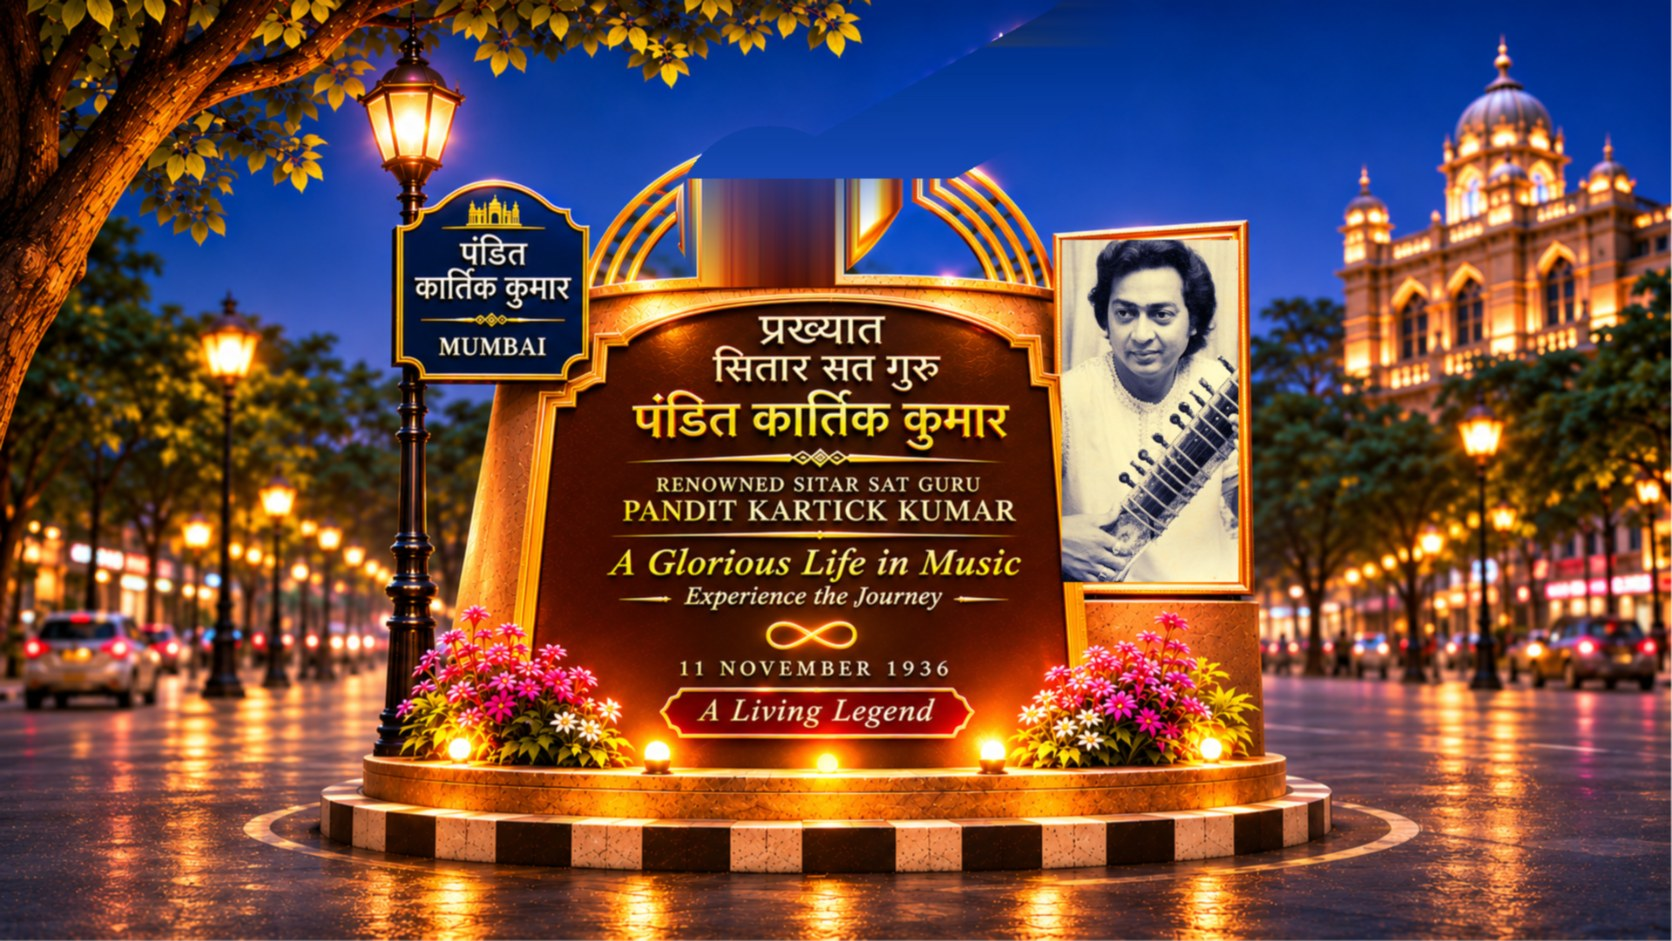
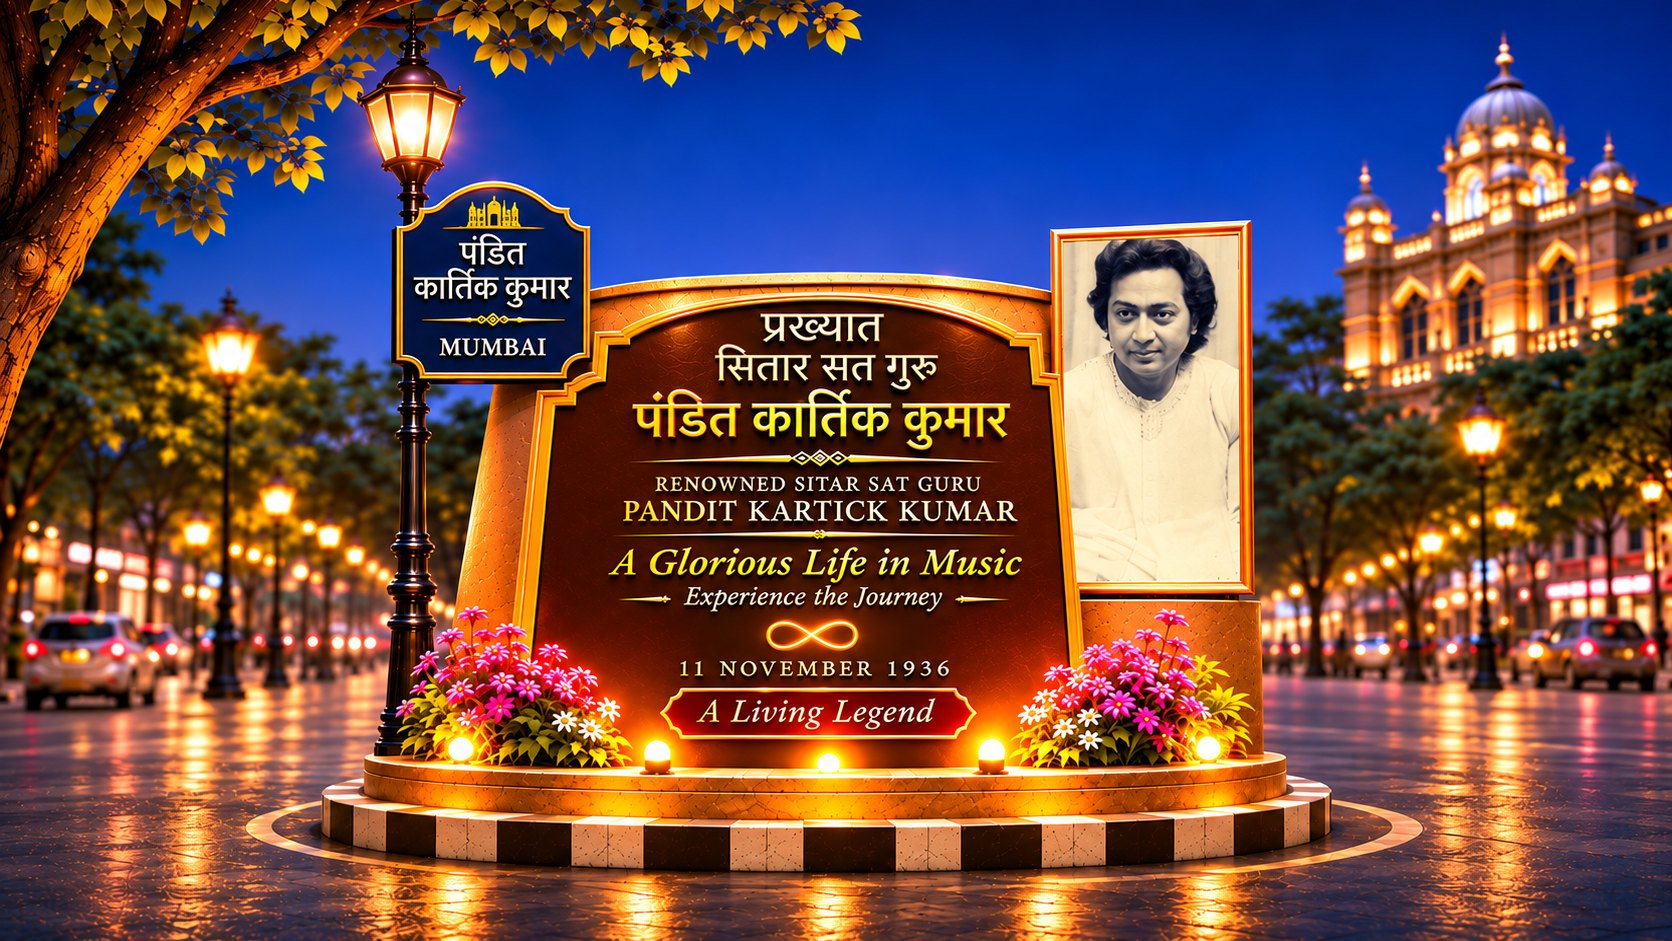
Frame 1: new clean chowk artwork, 3D sitar crowns the monument; flight now 1-2-4 (skip frame 3)

diff --git a/js/sitar3d.js b/js/sitar3d.js
@@ -548,16 +548,13 @@ async function init() {
     // phones (portrait artwork): gourd on the rim left of centre, neck rising to ~34 degrees
     // mounted on the gold arch stand: gourd centre at the artwork's (44%, 32.5%) wide / (40.5%, 40%) portrait,
     // body just over the rim (its lowest edge tucks behind it), neck rising at 27 / 33 degrees
-    // mounted on the gold ring of the new chowk artwork (sitar centre where the painted one sat)
-    { el: '.chowk-stage', at: () => portrait() ? [0.56, 0.33] : [0.558, 0.15],
-      len: r => r.width * (portrait() ? 0.45 : 0.28), ang: () => portrait() ? 35 : 27 },
+    // rests on top of the monument dome in the new chowk artwork
+    { el: '.chowk-stage', at: () => portrait() ? [0.47, 0.3] : [0.48, 0.15],
+      len: r => r.width * (portrait() ? 0.42 : 0.3), ang: () => portrait() ? 33 : 27 },
     { el: '.hero', at: () => mobile() ? [0.5, 0.5] : [0.27, 0.5],
       len: r => mobile() ? Math.min(r.width * 0.95, r.height * 0.62) : Math.min(r.width * 0.42, r.height * 0.7),
-      ang: 37, from: 9, to: 0.1, anchor: true, hop: 0 },   // peel off the stand from the first scroll and glide straight here
-    // the six-stone chapters frame: the sitar glides in and floats above the stones
-    { el: '#chapters', at: () => mobile() ? [0.5, 0.15] : [0.5, 0.24],
-      len: r => mobile() ? Math.min(r.width * 0.78, r.height * 0.42) : Math.min(r.width * 0.3, r.height * 0.56),
-      ang: 24, from: 0.96, to: 0.34 },
+      ang: 37, from: 9, to: 0.1, anchor: true, hop: 0 },   // peel off the monument on the first scroll and glide straight here
+    // (frame 3 / #chapters is intentionally skipped — the sitar flies 1 -> 2 -> straight to the street)
     // the story street: land at its top-middle, standing upright (vertical) ...
     { el: '.jr-street', at: r => mobile() ? [LANE_PX / r.width, 0.03] : [0.5, 0.1],
       len: streetLen, ang: 90, from: 0.95, to: 0.3 },

diff --git a/css/styles.css b/css/styles.css
@@ -92,7 +92,7 @@ body::before{content:"";position:fixed;inset:0 0 auto;height:env(safe-area-inset
 .chowk-stage{position:relative;width:100%;aspect-ratio:1672/941;margin:0 auto}
 .chowk-art{position:absolute;inset:0;width:100%;height:100%;display:block}
 /* still photo of his sitar resting on the monument, for browsers without 3D */
-.chowk-still{position:absolute;left:43%;top:1%;width:27%;height:auto;pointer-events:none;transform:rotate(16deg);transform-origin:15% 78%;
+.chowk-still{position:absolute;left:37%;top:-4%;width:27%;height:auto;pointer-events:none;transform:rotate(18deg);transform-origin:15% 78%;
   filter:brightness(.95) drop-shadow(0 0 1px rgba(255,214,150,.6)) drop-shadow(0 16px 18px rgba(0,0,0,.55))}
 .kk-3d .chowk-still{display:none}
 /* gold arch stand hidden: the new chowk artwork has its own gold ring the sitar mounts on */
@@ -119,7 +119,7 @@ body::before{content:"";position:fixed;inset:0 0 auto;height:env(safe-area-inset
 @media(max-width:600px){
   .chowk{padding-top:0;min-height:100svh;display:flex;align-items:center}
   .chowk-stage{width:auto;max-width:none;height:100svh;aspect-ratio:941/1672;margin:0 auto;transform:none}
-  .chowk-still{left:33%;top:21%;width:41%;transform:rotate(8deg)}
+  .chowk-still{left:29%;top:20%;width:42%;transform:rotate(10deg)}
   .chowk-stand.wide{display:none}
   .chowk-stand.tall{display:block}
   .chowk-stand.tall .arches path{stroke-width:8}
